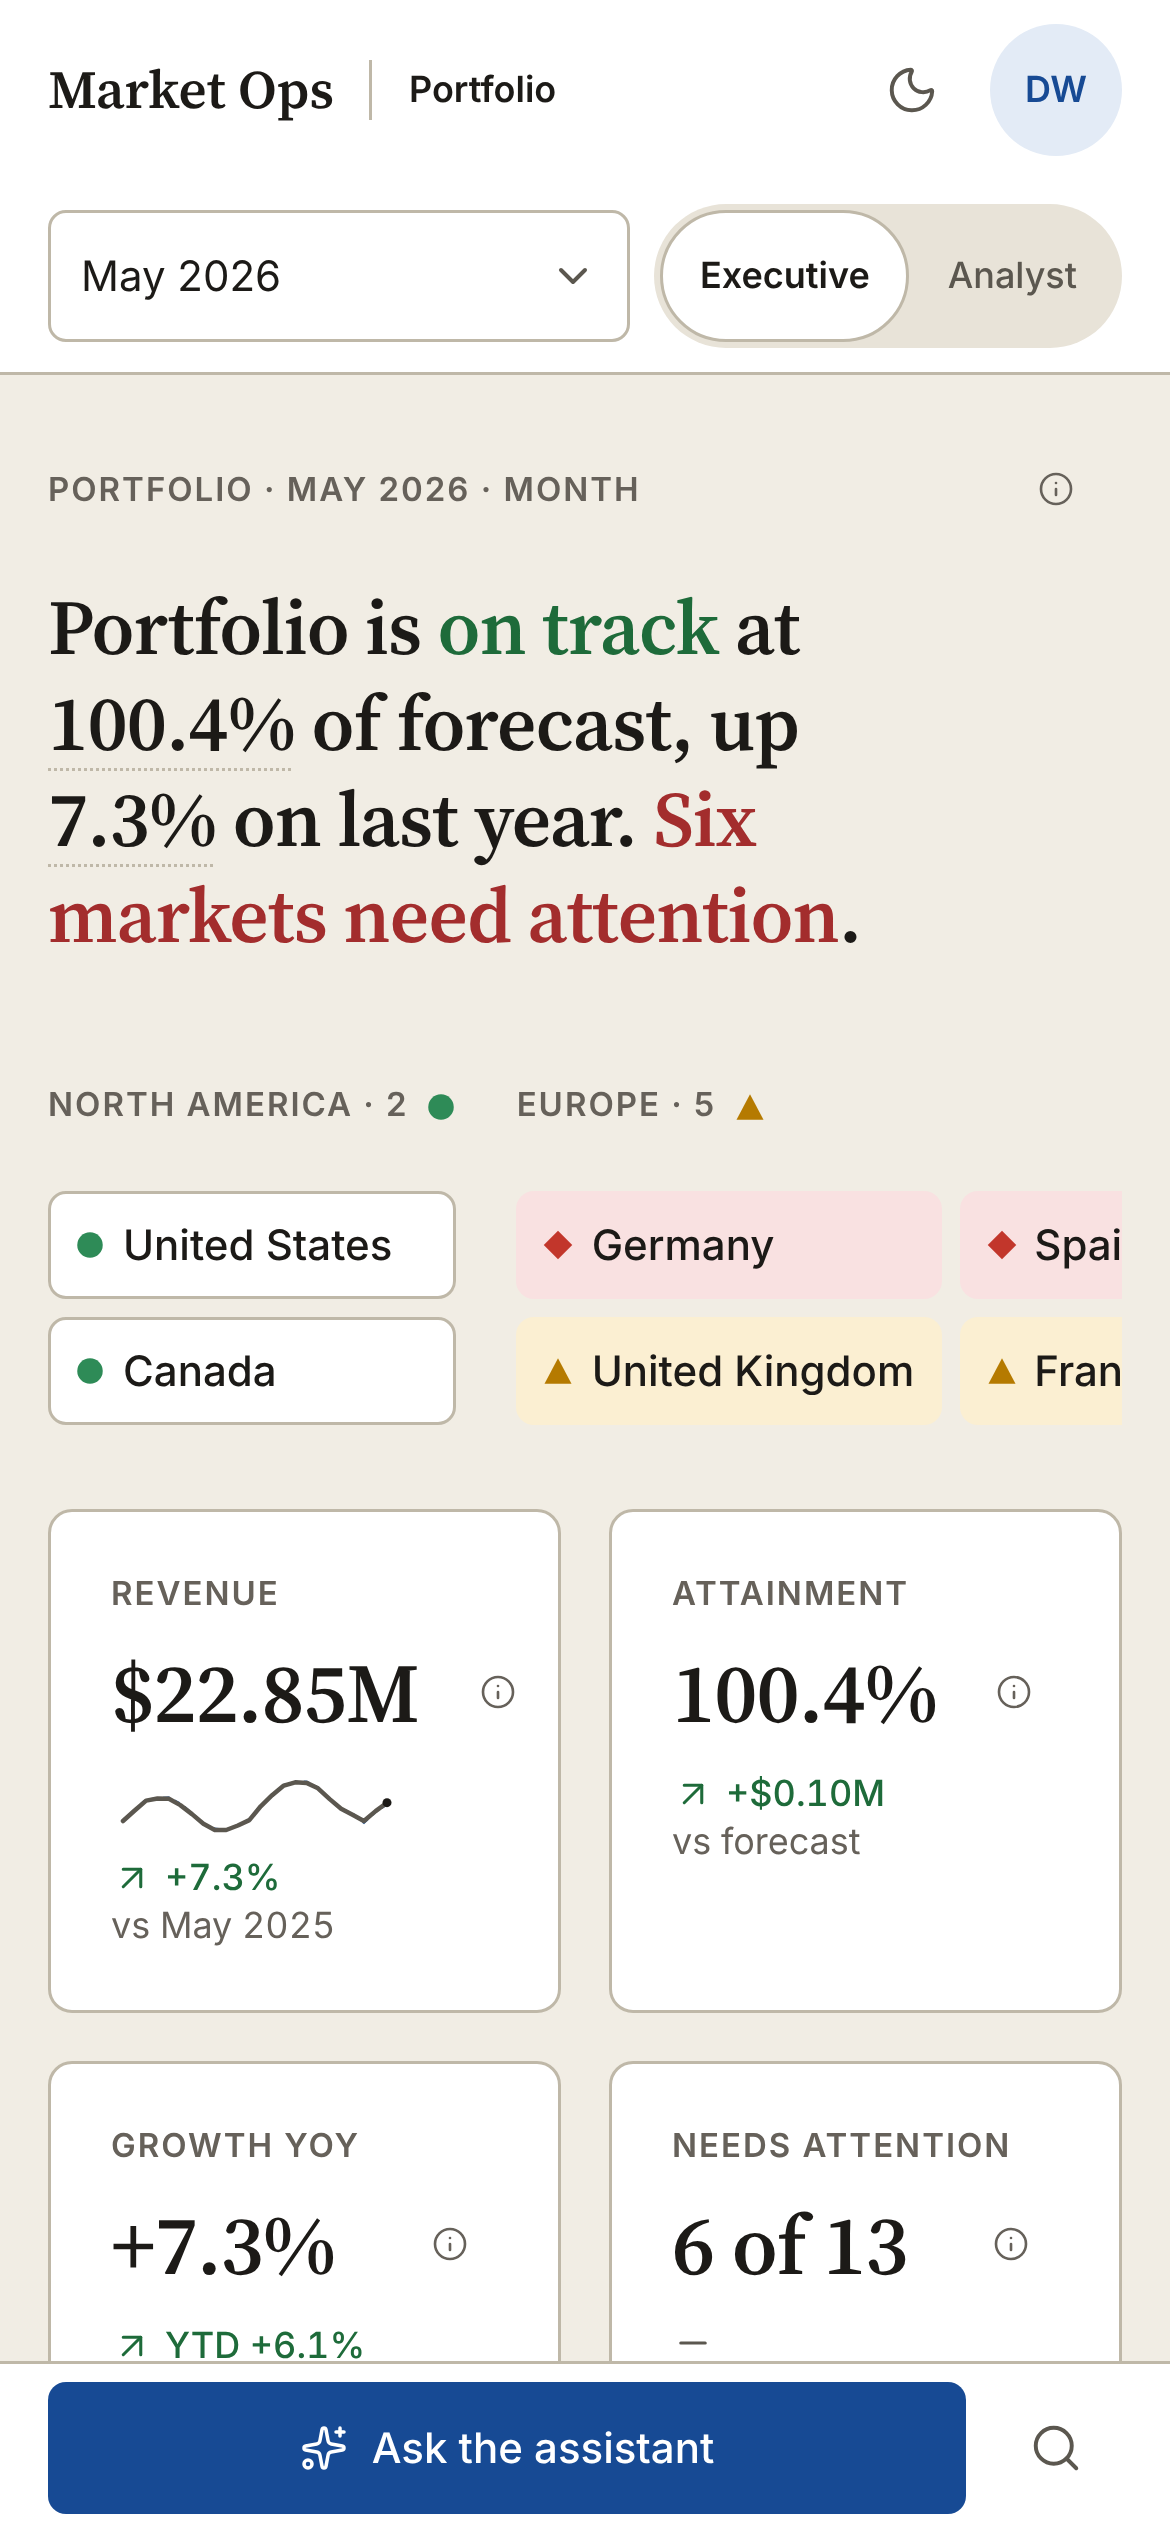
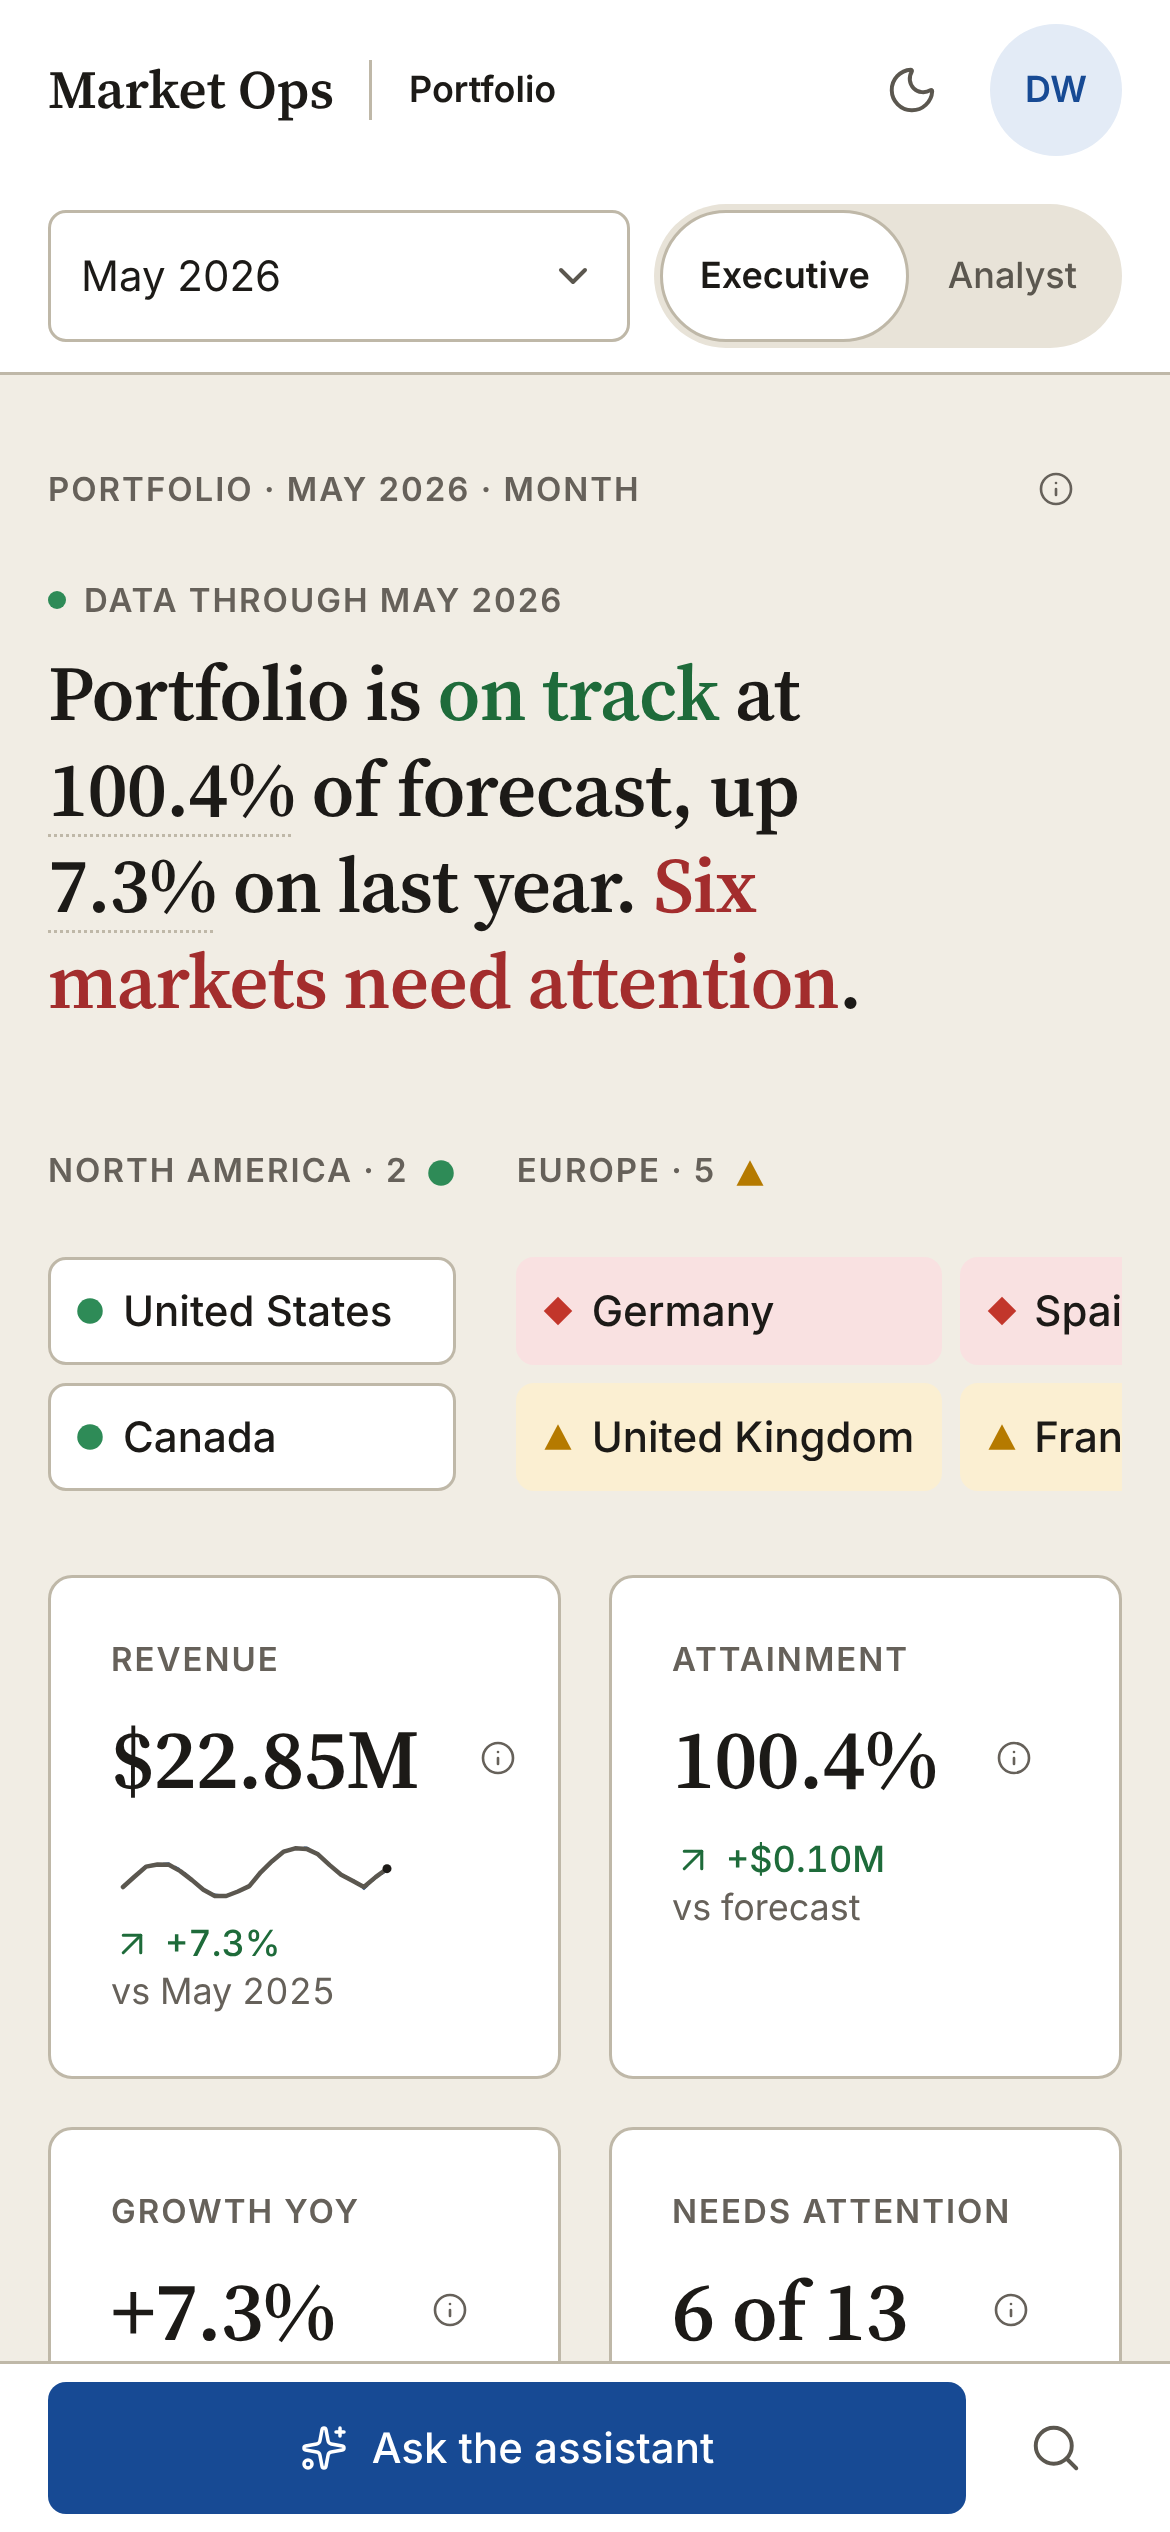
fix(mobile): show the data stamp under the Overview verdict on phones (slice 20)

Changed region(s): [[0.0308, 0.2184, 0.9846, 0.936], [0.3692, 0.8736, 0.4, 0.936]]

diff --git a/src/features/overview/Verdict.tsx b/src/features/overview/Verdict.tsx
@@ -2,6 +2,7 @@ import { cn } from "@/components/cn";
 import { pageHeadingProps } from "@/lib/motion";
 import { Eyebrow } from "@/components/Eyebrow";
 import { InfoTip } from "@/components/InfoTip";
+import { DataStamp } from "@/features/shell/DataStamp";
 import type { VerdictVM } from "./viewModel";
 
 const STATUS_TEXT = {
@@ -24,6 +25,8 @@ export function Verdict({ verdict }: { verdict: VerdictVM }) {
         <InfoTip label="About this verdict">{verdict.caption}</InfoTip>
         <span className="sr-only">{verdict.caption}</span>
       </div>
+      {/* The header's stamp is hidden under 768 px; the Overview carries it here instead. */}
+      <DataStamp latestPeriod={verdict.latestPeriod} className="md:hidden" />
       <h2
         id="verdict-h"
         {...pageHeadingProps}

diff --git a/src/features/overview/viewModel.ts b/src/features/overview/viewModel.ts
@@ -326,6 +326,8 @@ export type VerdictSegment = {
 
 export type VerdictVM = {
   eyebrow: string;
+  /** The dataset's latest period, for the "Data through" line a phone shows under the eyebrow. */
+  latestPeriod: string;
   caption: string;
   segments: VerdictSegment[];
   status: Status;
@@ -405,6 +407,7 @@ export function verdictVM(ds: Dataset, ctx: Context): VerdictVM {
   return {
     eyebrow:
       `${entityName(ds, entity)} · ${formatPeriod(ctx.period)} · ${BASIS_LABEL.month}`.toUpperCase(),
+    latestPeriod: ds.meta.latestPeriod,
     caption: market ? sourceLabel(ds, atLatest(ds, ctx)) : derivedLabel(ds, atLatest(ds, ctx)),
     segments: joinSegments(parts),
     status,

diff --git a/tests/e2e/slice1.spec.ts b/tests/e2e/slice1.spec.ts
@@ -14,7 +14,7 @@ async function tabThrough(page: Page, names: { role: string; name: string }[]) {
 test("cold open content", async ({ page }) => {
   await page.goto("/");
   await expect(page.getByRole("heading", { level: 1 })).toHaveText("Market Ops");
-  await expect(page.getByText(/data through may 2026/i)).toBeVisible();
+  await expect(page.getByText(/data through may 2026/i).locator("visible=true")).toBeVisible();
   await expect(page.getByRole("radio", { name: "Executive" })).toBeChecked();
   for (const name of [
     "Which markets are at risk?",

diff --git a/tests/e2e/slice20.spec.ts b/tests/e2e/slice20.spec.ts
@@ -96,6 +96,13 @@ test.describe("phone", () => {
     expect(avatar.x + avatar.width).toBeLessThanOrEqual(390);
   });
 
+  test("the Overview carries the data stamp under its eyebrow, since the header drops it", async ({
+    page,
+  }) => {
+    await open(page, OVERVIEW);
+    await expect(page.getByText(/^Data through May 2026$/i).locator("visible=true")).toHaveCount(1);
+  });
+
   test("the Analyst grid scrolls inside its own region and keeps its first column in view", async ({
     page,
   }) => {

diff --git a/tests/e2e/slice0.spec.ts b/tests/e2e/slice0.spec.ts
@@ -5,7 +5,7 @@ test("serves the shell", async ({ page }) => {
   const response = await page.goto("/");
   expect(response?.status()).toBe(200);
   await expect(page.getByRole("heading", { level: 1 })).toHaveText("Market Ops");
-  await expect(page.getByText(/data through may 2026/i)).toBeVisible();
+  await expect(page.getByText(/data through may 2026/i).locator("visible=true")).toBeVisible();
 });
 
 test("theme toggle sets data-theme and persists across reload", async ({ page }) => {
